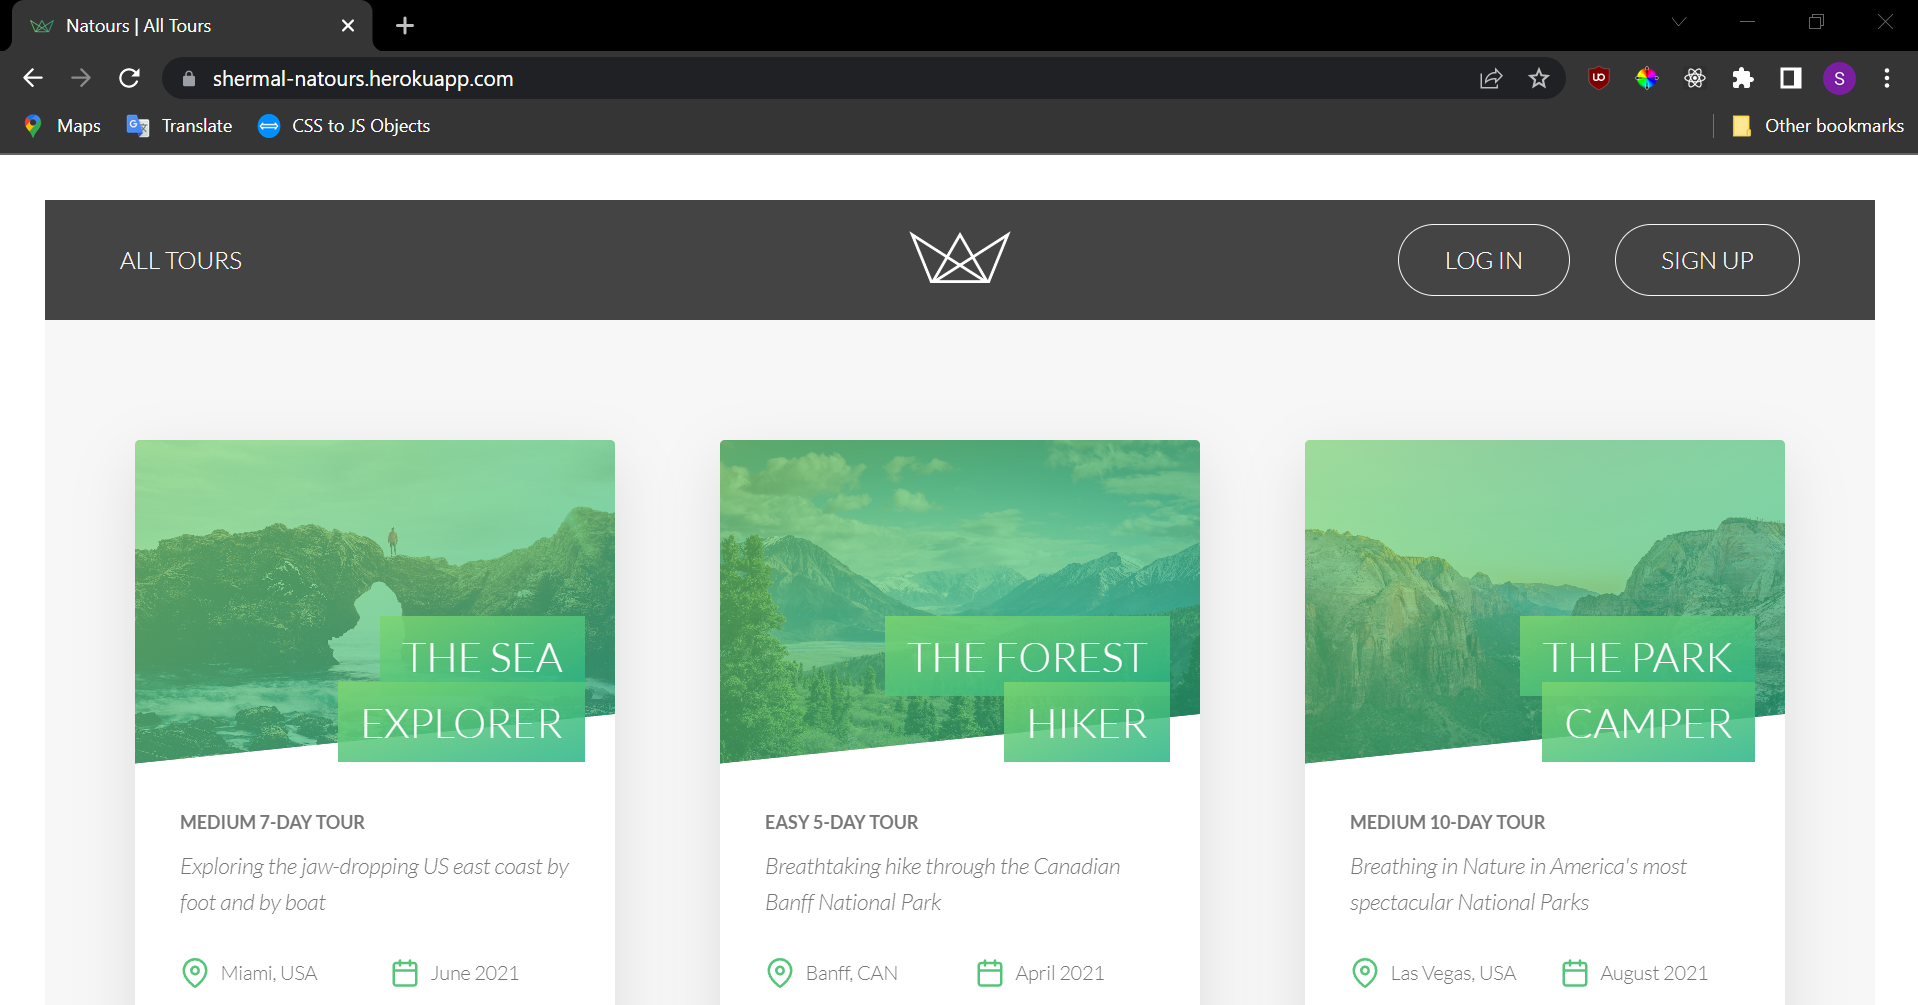
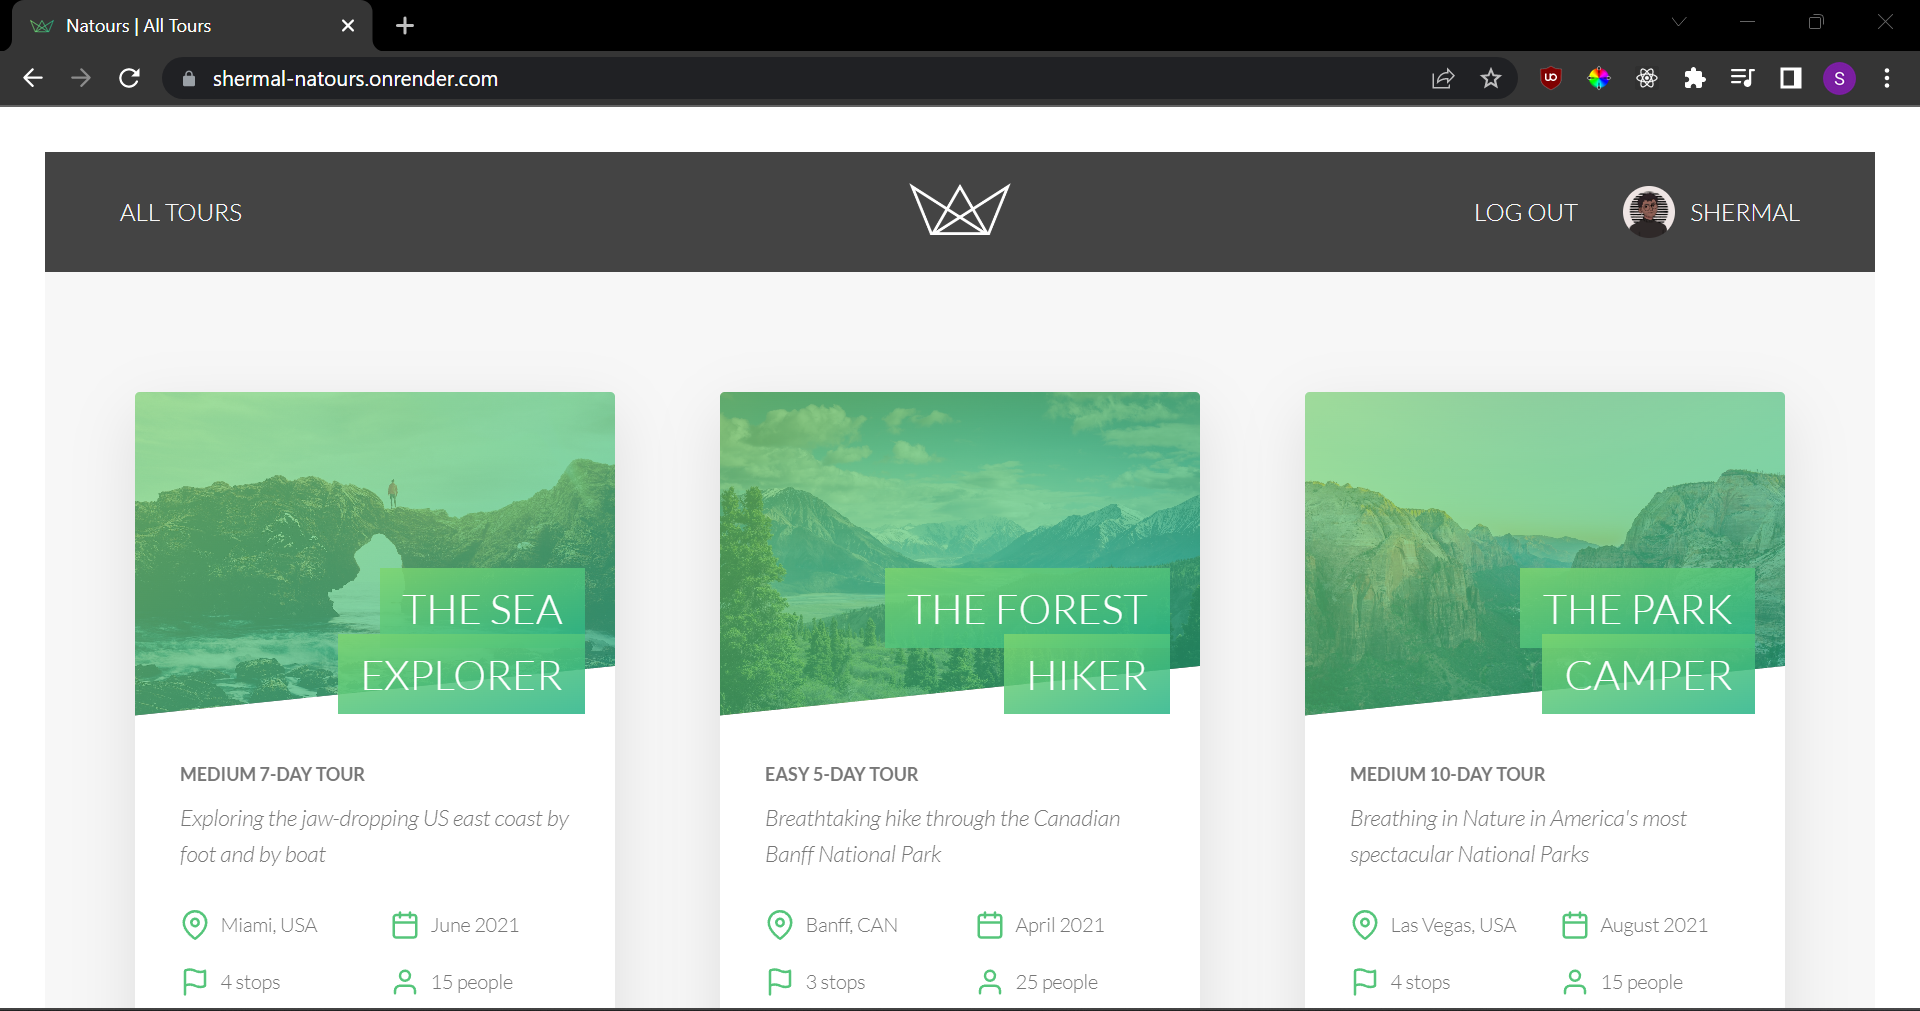
Added new link for Natours project

diff --git a/js/app.js b/js/app.js
@@ -22,7 +22,7 @@ const app = Vue.createApp({
                     imageSrc: 'images/natours.png',
                     imageAlt: 'natours',
                     githubLink: 'https://github.com/ShermalM/natours',
-                    projectLink: 'https://shermal-natours.herokuapp.com/',
+                    projectLink: 'https://shermal-natours.onrender.com/',
                 },
                 {
                     name: 'Find a Coach',
